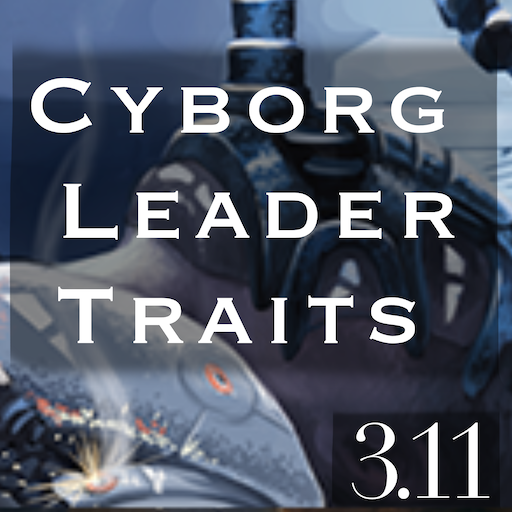
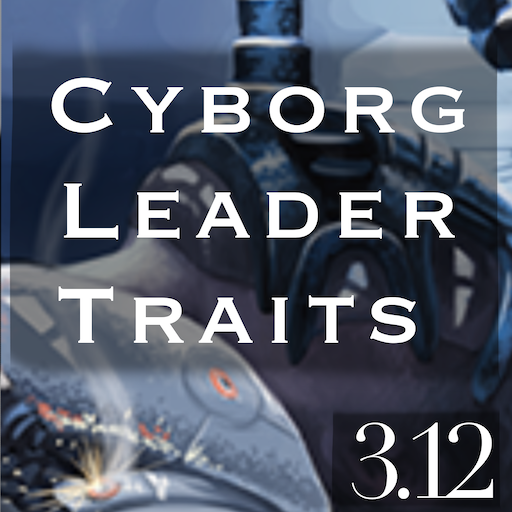
updated for 3.12

diff --git a/CyberneticLeaderTraits/Description.md b/CyberneticLeaderTraits/Description.md
@@ -1,6 +1,6 @@
 [h1] Cybernetic Leader Traits [/h1]
 
-Cybernetic Leader Traits is a small mod that adds many new veteran traits (and a destiny trait) that are available to any Cyborg leader. The aim was to build upon the ascension paths to allow for more diverse roleplay/thematics and some new gameplay elements.
+Cybernetic Leader Traits is a small mod that adds many new veteran traits (and a destiny trait) that are available to any Cyborg leader (this includes Ritualistic implants from the Cybernetic Creed origin). The aim was to build upon the ascension paths to allow for more diverse roleplay/thematics and some new gameplay elements.
 
 These leader traits are weighted to be somewhat rare and balanced to be slightly more powerful than an average trait, however like any leader trait, their effectiveness will vary on the current strategy.
 
